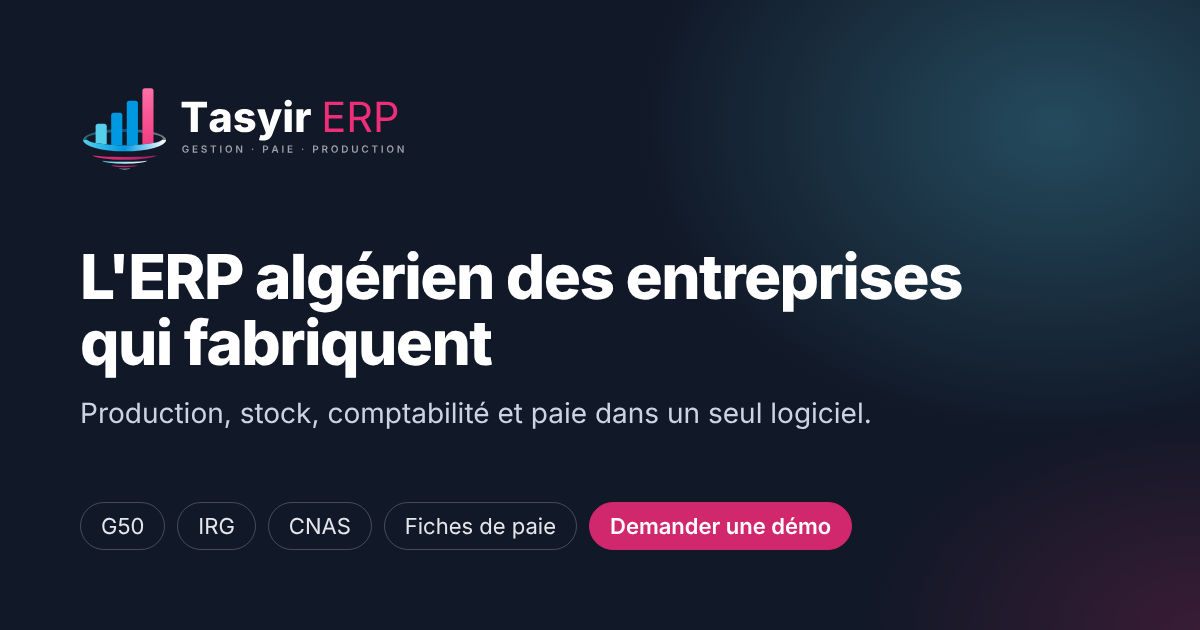
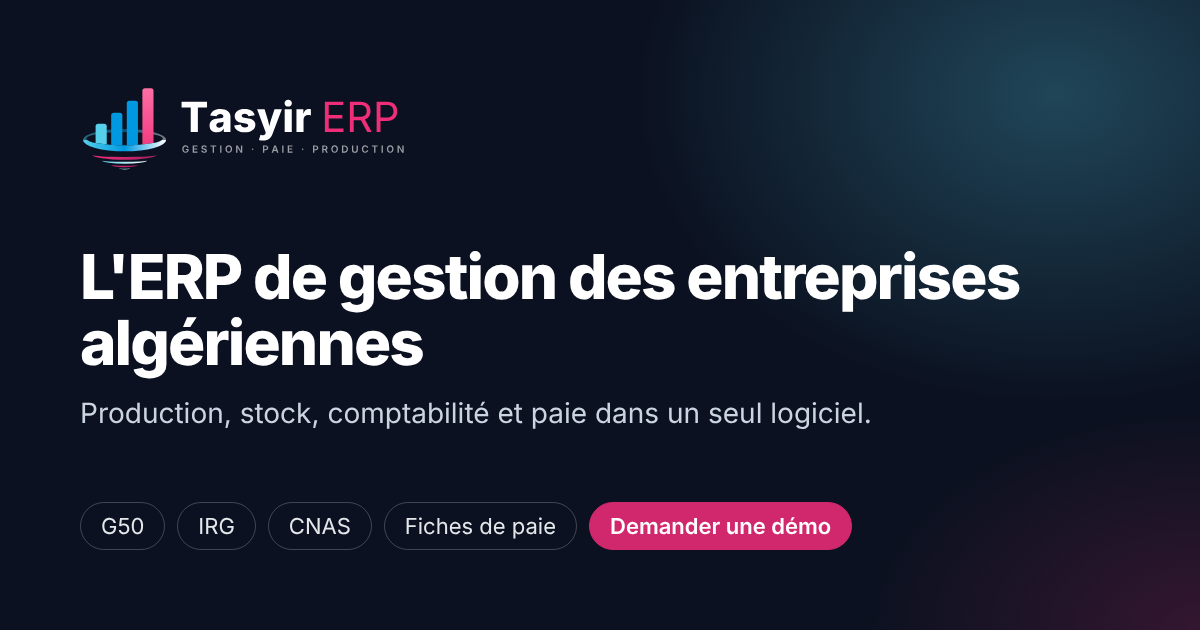
Nouveau titre : « L'ERP de gestion des entreprises algériennes »
Titre principal, balise title, description Google, titre de partage et image Open Graph mis à jour.

Claude-Session: https://claude.ai/code/session_014Hp9wdBxYdTzQ1qRTPQ2uS

Changed region(s): [[0.0617, 0.3921, 0.8633, 0.6032]]

diff --git a/public/index.html b/public/index.html
@@ -3,8 +3,8 @@
 <head>
   <meta charset="utf-8">
   <meta name="viewport" content="width=device-width, initial-scale=1, viewport-fit=cover">
-  <title>Tasyir ERP – ERP algérien pour la production et la paie</title>
-  <meta name="description" content="ERP algérien : production, stock, comptabilité et paie. G50, IRG et CNAS générés automatiquement. Utilisé par El Afia Catering depuis plus d'un an.">
+  <title>Tasyir ERP – L'ERP de gestion des entreprises algériennes</title>
+  <meta name="description" content="L'ERP de gestion des entreprises algériennes : production, stock, compta et paie. G50, IRG et CNAS générés automatiquement. Utilisé par El Afia Catering.">
   <link rel="canonical" href="https://tasyirerp.com/">
   <link rel="alternate" hreflang="fr-DZ" href="https://tasyirerp.com/">
   <link rel="alternate" hreflang="x-default" href="https://tasyirerp.com/">
@@ -17,7 +17,7 @@
   <meta property="og:locale" content="fr_DZ">
   <meta property="og:site_name" content="Tasyir ERP">
   <meta property="og:url" content="https://tasyirerp.com/">
-  <meta property="og:title" content="Tasyir ERP – l'ERP algérien des entreprises qui fabriquent">
+  <meta property="og:title" content="Tasyir ERP – L'ERP de gestion des entreprises algériennes">
   <meta property="og:description" content="Production, stock, comptabilité et paie dans un seul logiciel. G50, IRG et CNAS générés automatiquement.">
   <meta property="og:image" content="https://tasyirerp.com/assets/og/tasyir-erp-og.png">
   <meta property="og:image:width" content="1200">
@@ -137,7 +137,7 @@
     <section class="hero" aria-labelledby="hero-titre">
       <div class="wrap hero__intro" data-enter>
         <p class="eyebrow"><span class="eyebrow__dot" aria-hidden="true"></span>Conforme G50, IRG et CNAS</p>
-        <h1 id="hero-titre">L'ERP algérien des entreprises qui fabriquent</h1>
+        <h1 id="hero-titre">L'ERP de gestion des entreprises algériennes</h1>
         <p class="lead">Production, achats, stock, comptabilité et paie dans un seul logiciel, conforme à la réglementation algérienne. La G50, l'IRG, la CNAS et les fiches de paie sont générées automatiquement.</p>
         <div class="btn-row">
           <a class="btn btn--primary btn--lg" href="#demo">Demander une démo
